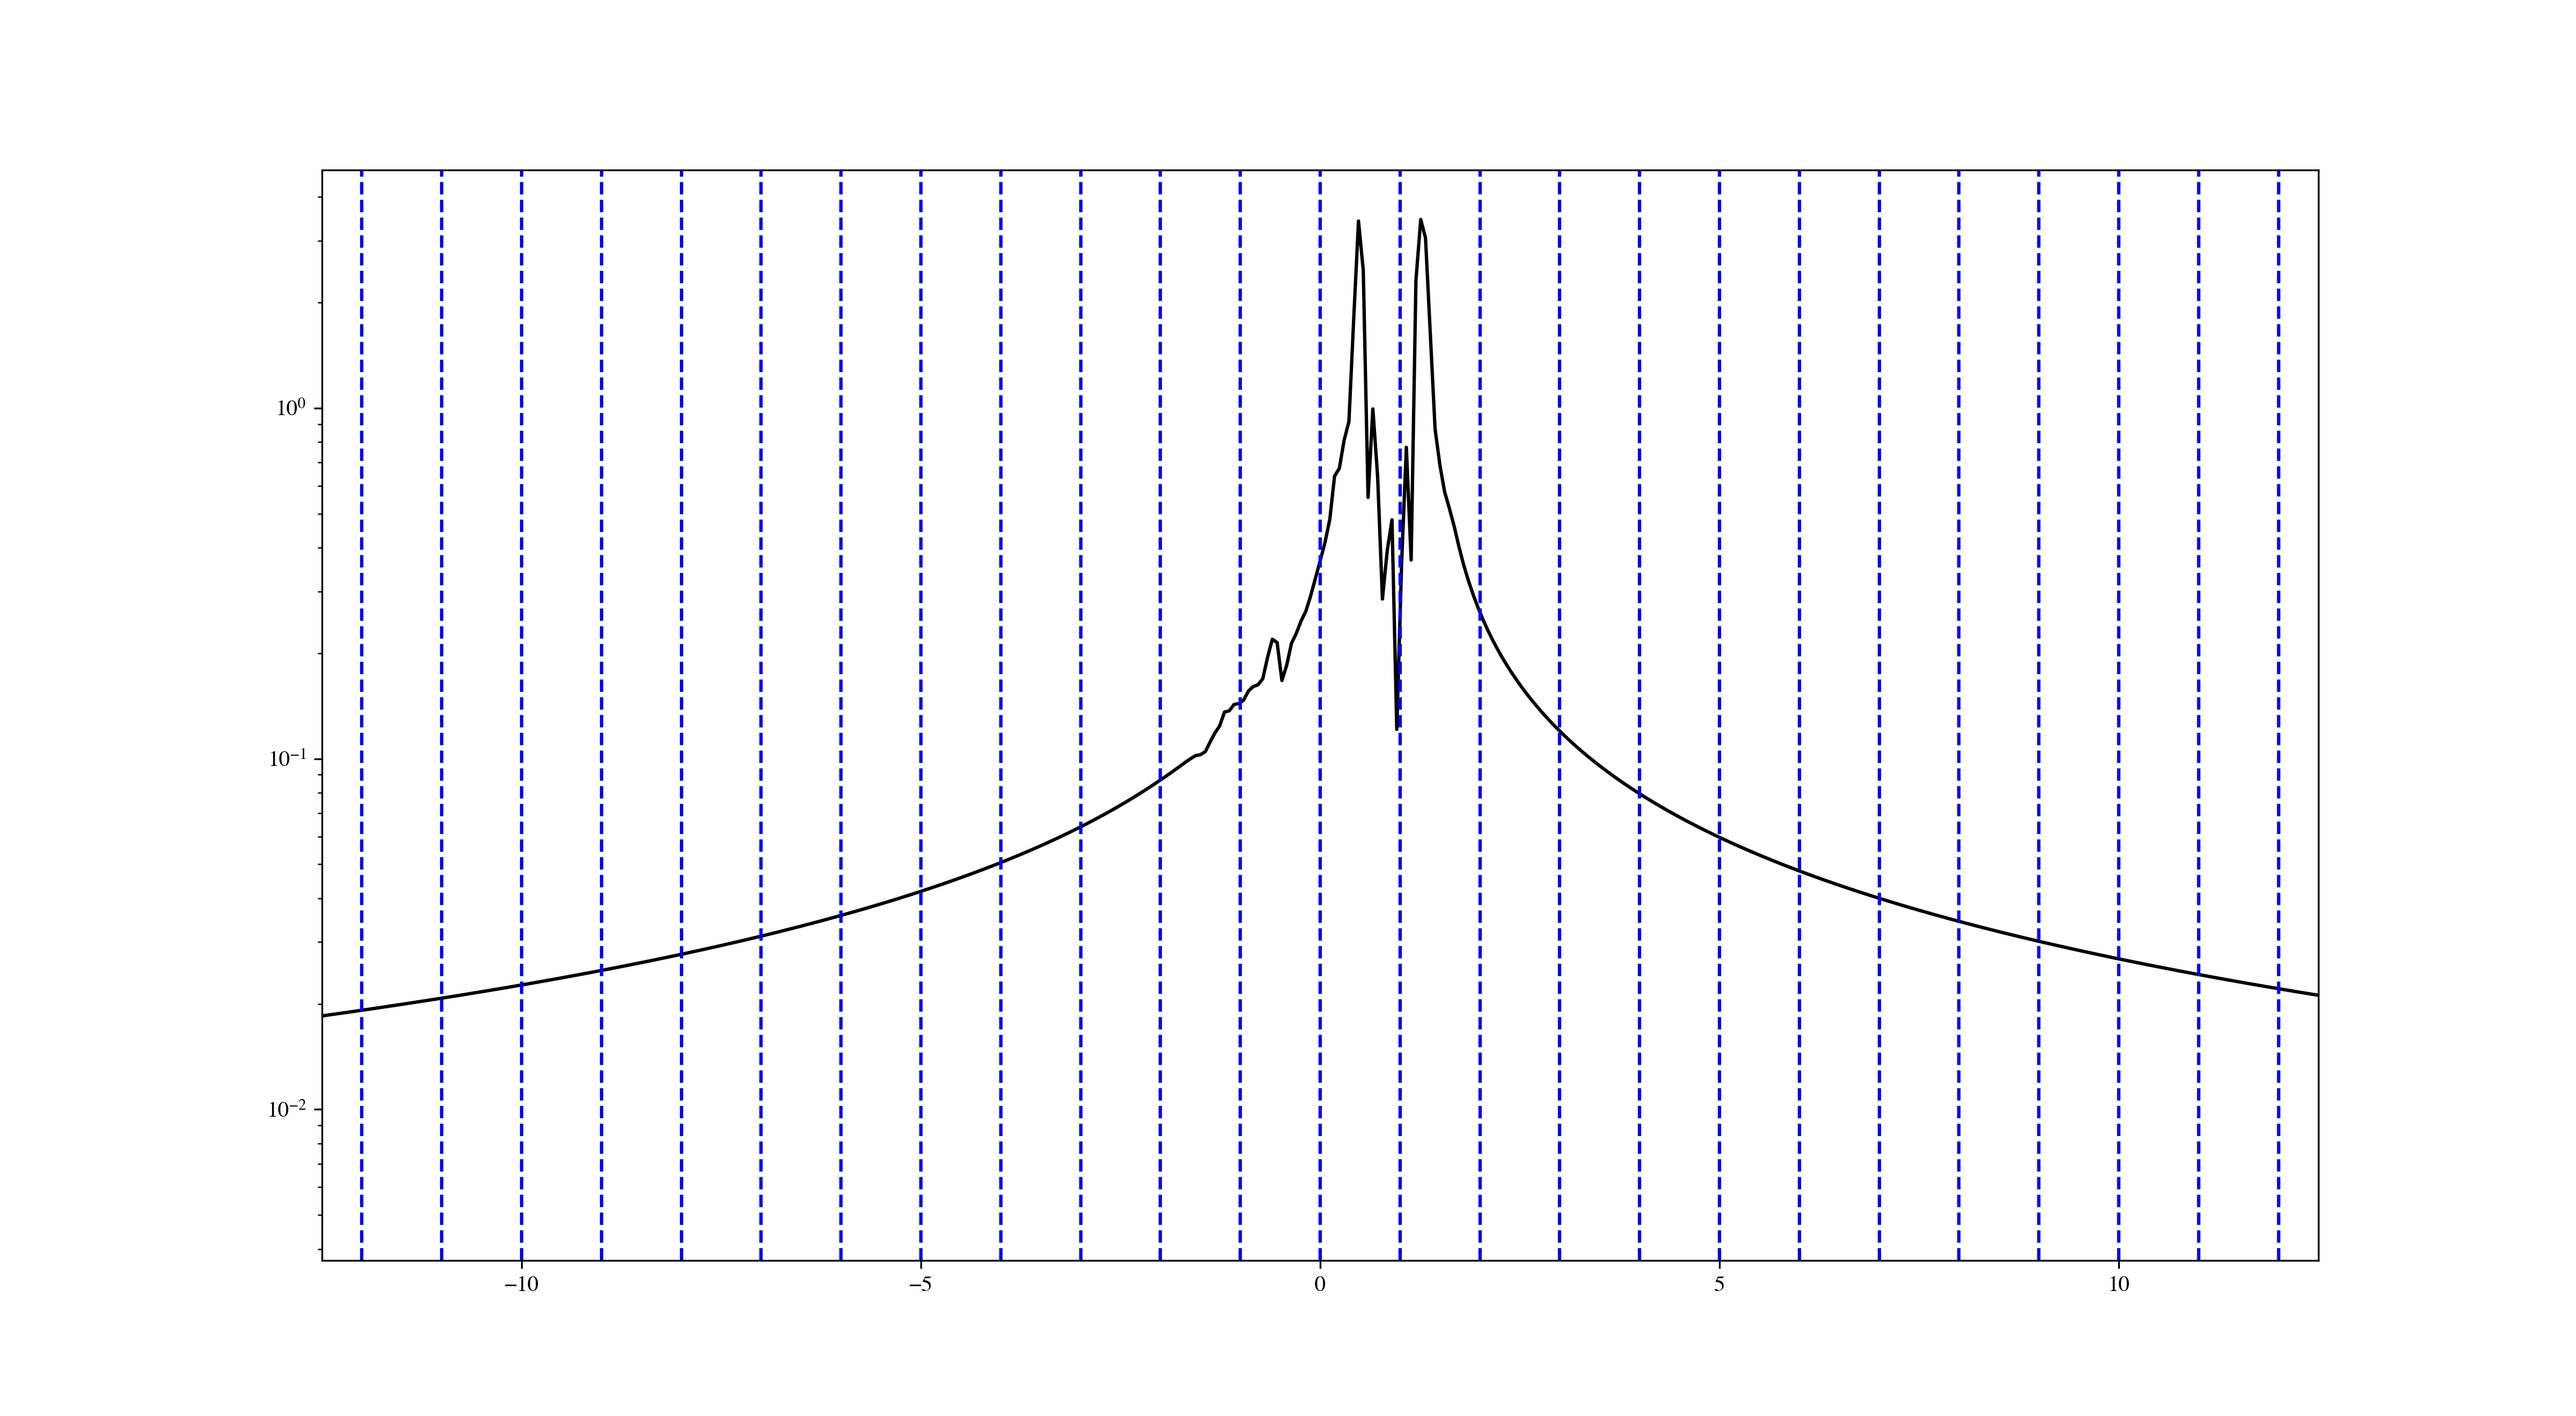
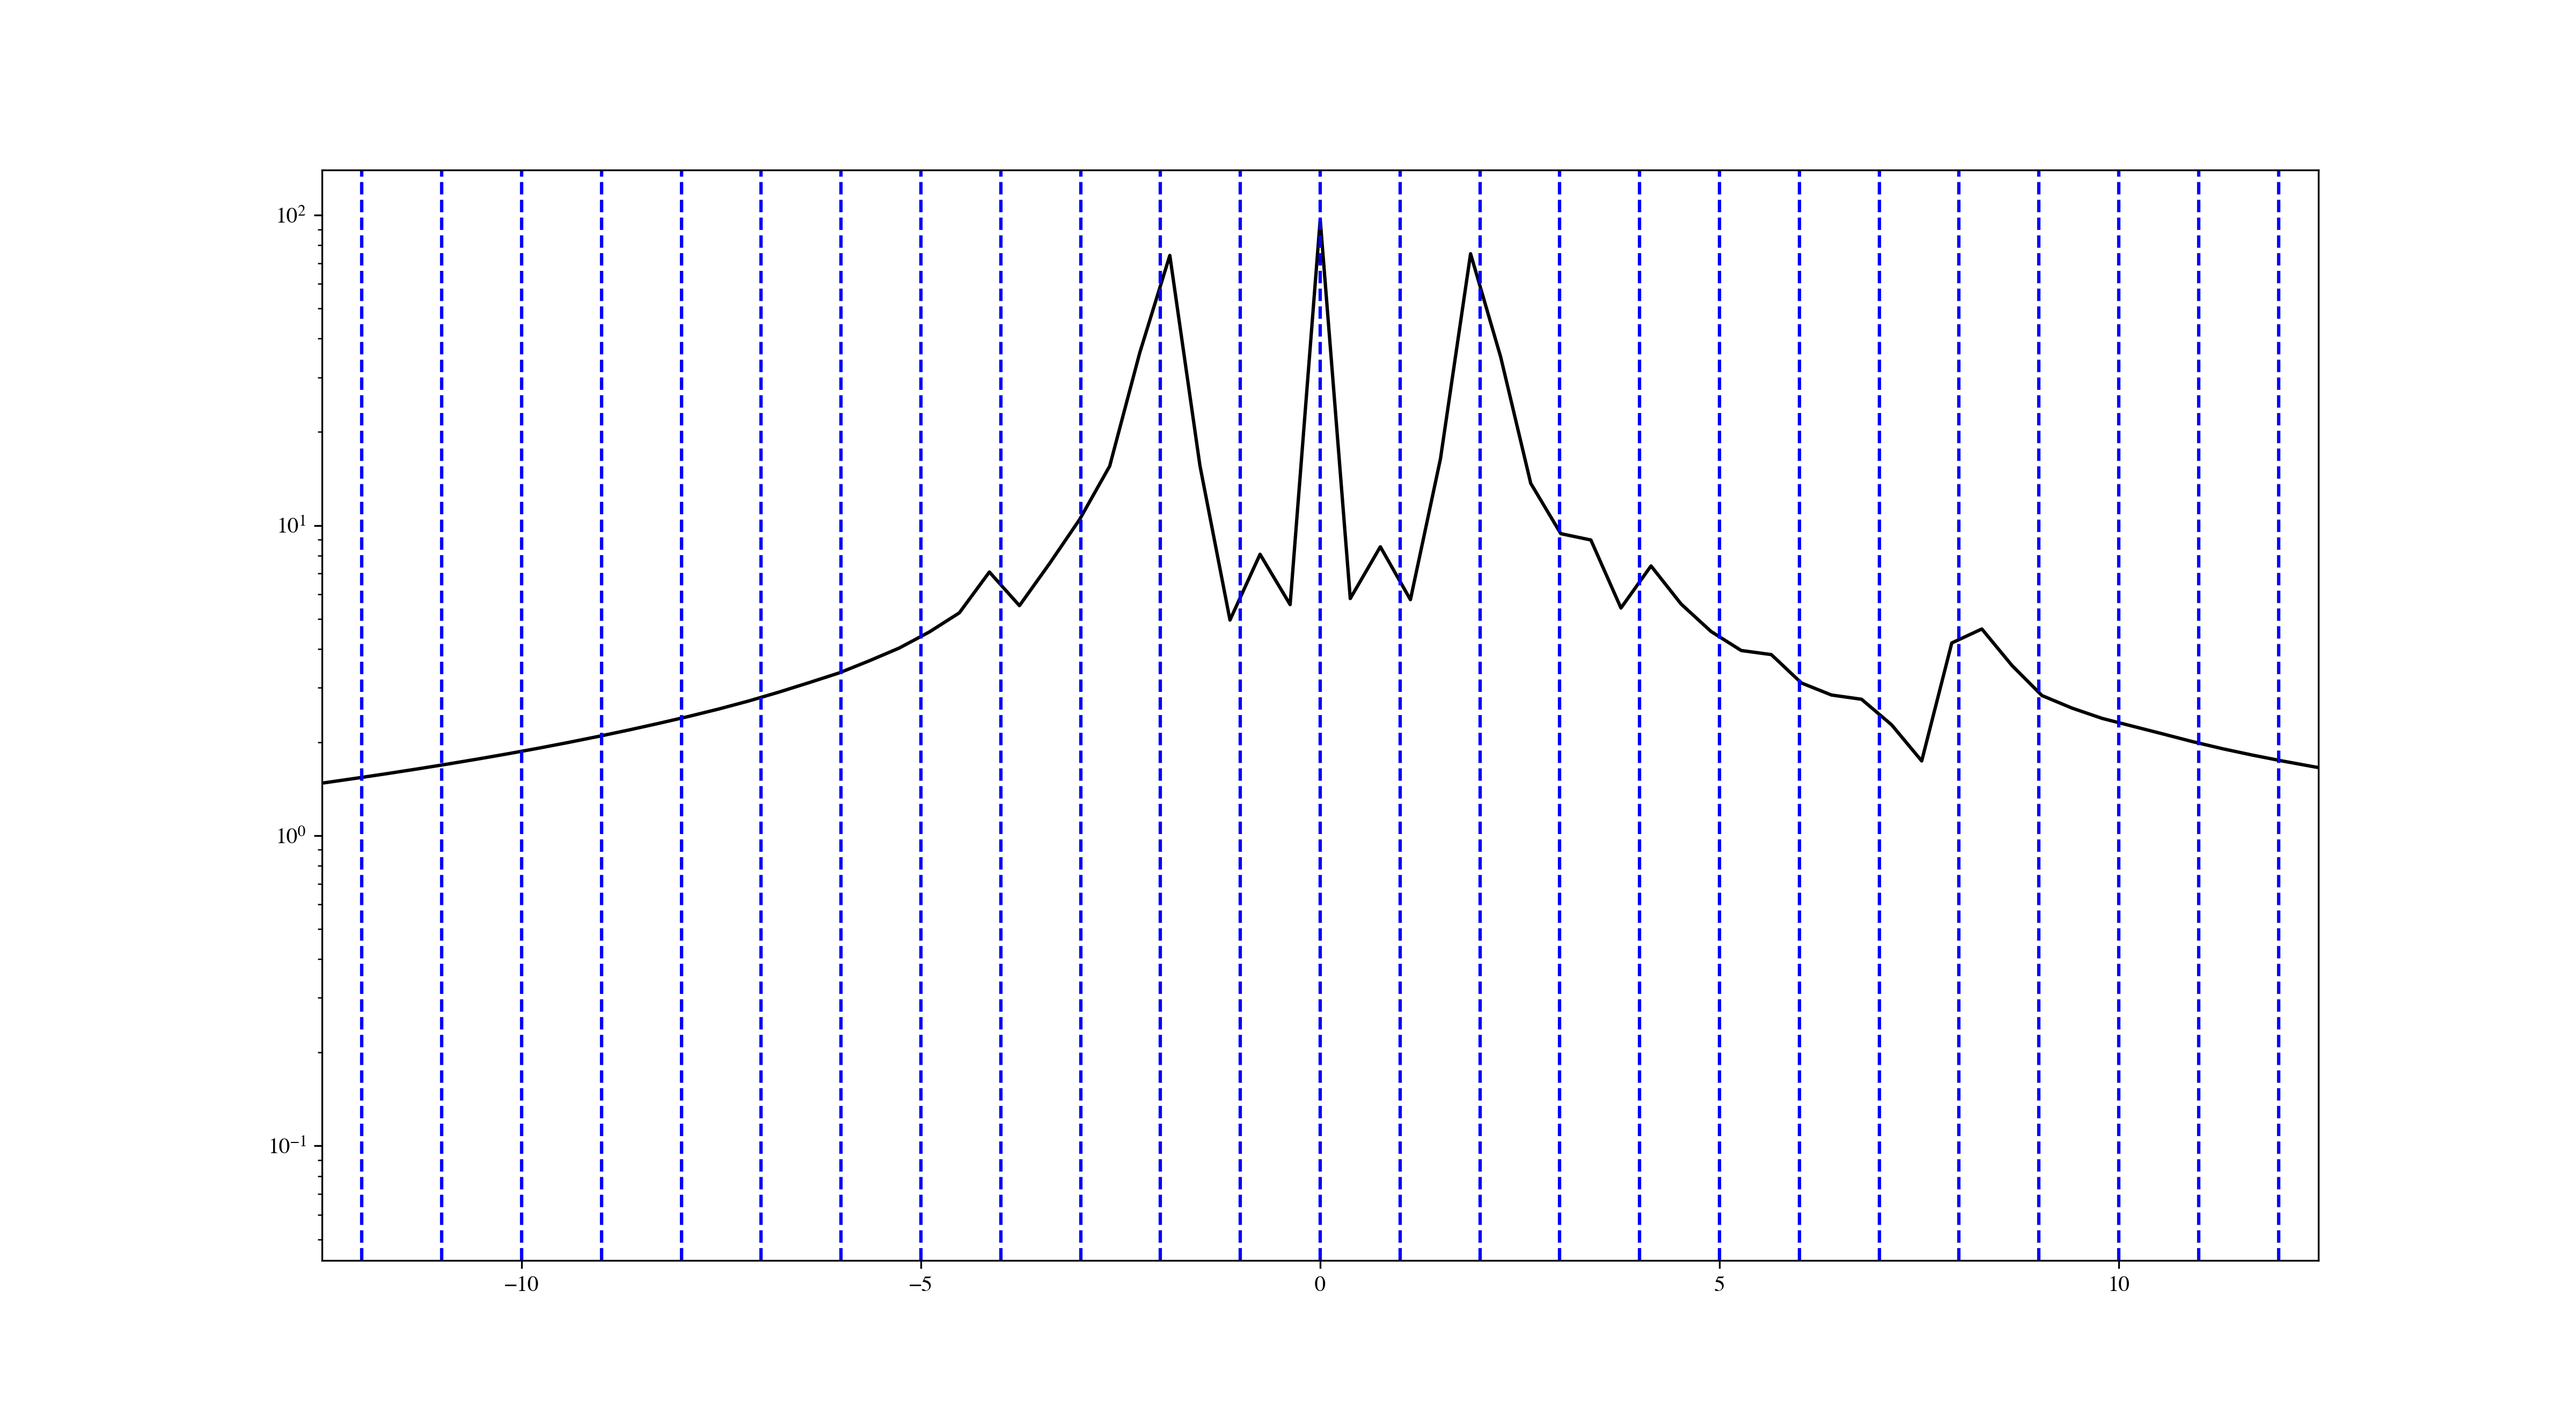
Changed the things in Denis' code that were different to mine - changed Hy -> -Hy and changed the signs of the jz_jy and jy_jz terms in the connected current correlator. This made the FFT symmetrical and only have even harmonics. However, if this matches my derivation, why on Earth does it not match

Changed region(s): [[0.4688, 0.1553, 0.5625, 0.4348], [0.625, 0.4038, 0.6562, 0.4348], [0.375, 0.4038, 0.4062, 0.4348]]

diff --git a/DenisSSHModel.py b/DenisSSHModel.py
@@ -81,7 +81,7 @@ class One_D_SSH_Model:
         dwdk = self.dwdk(k)
         dA12 = 2.0 * self.energy(k) * self.A12(k)
         At = self.Ax(t)
-        return dwdk * (1.0 - cos(At)) + dA12 * sin(At)
+        return -(dwdk * (1.0 - cos(At)) + dA12 * sin(At))
 
     def hzn(self, n: int, k: float):
         """Fourier coefficient $h_{z, n}$ for momentum k."""
@@ -380,9 +380,10 @@ class One_D_SSH_Model:
                     - (sm_sm - sm0[index0] * sm0) # $\langle \sigma_-(t) \sigma_-(t + \tau) \rangle - \langle \sigma_-(t) \rangle \langle \sigma_-(\tau) \rangle$
                     - (sp_sp - sp0[index0] * sp0) # $\langle \sigma_+(t) \sigma_+(t + \tau) \rangle - \langle \sigma_+(t) \rangle \langle \sigma_+(\tau) \rangle$
                 )
-            correlation[ind] -= 1.0j * jz_jy * (sz_sm - sm0[index0] * sz0       # $\langle \sigma_-(t) \sigma_z(t + \tau) \rangle - \langle \sigma_-(t) \rangle \langle \sigma_z(\tau) \rangle$
+
+            correlation[ind] += 1.0j * jz_jy * (sz_sm - sm0[index0] * sz0       # $\langle \sigma_-(t) \sigma_z(t + \tau) \rangle - \langle \sigma_-(t) \rangle \langle \sigma_z(\tau) \rangle$
                                                 - (sz_sp - sp0[index0] * sz0))  # $\langle \sigma_+(t) \sigma_z(t + \tau) \rangle - \langle \sigma_+(t) \rangle \langle \sigma_z(\tau) \rangle$
-            correlation[ind] -= 1.0j * jy_jz * (sm_sz - sz0[index0] * sm0       # $\langle \sigma_z(t) \sigma_-(t + \tau) \rangle - \langle \sigma_z(t) \rangle \langle \sigma_-(\tau) \rangle$
+            correlation[ind] += 1.0j * jy_jz * (sm_sz - sz0[index0] * sm0       # $\langle \sigma_z(t) \sigma_-(t + \tau) \rangle - \langle \sigma_z(t) \rangle \langle \sigma_-(\tau) \rangle$
                                                 - (sp_sz - sz0[index0] * sp0))  # $\langle \sigma_z(t) \sigma_+(t + \tau) \rangle - \langle \sigma_z(t) \rangle \langle \sigma_+(\tau) \rangle$
             
             # Grouping of operators seems correct, need to justify why they use just $\tau$ instead of $t + \tau$, but I think it makes sense
